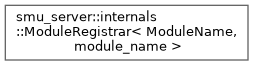
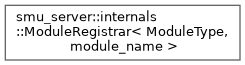
docs: update docs due to commit 8c395162f63e06a648062299bb7c2fcd1d58c3c3

Changed region(s): [[0.0571, 0.1538, 0.9429, 0.8], [0.5143, 0.6462, 0.7429, 0.8], [0.0, 0.0923, 0.0286, 0.8923]]

diff --git a/server/docs/html/module__registrar_8hpp_source.html b/server/docs/html/module__registrar_8hpp_source.html
@@ -164,16 +164,16 @@ $(document).ready(function(){initNavTree('module__registrar_8hpp_source.html',''
 <div class="line"><a id="l00077" name="l00077"></a><span class="lineno">   77</span> </div>
 <div class="line"><a id="l00078" name="l00078"></a><span class="lineno">   78</span> </div>
 <div class="foldopen" id="foldopen00088" data-start="{" data-end="};">
-<div class="line"><a id="l00088" name="l00088"></a><span class="lineno"><a class="line" href="structsmu__server_1_1internals_1_1ModuleRegistrar.html">   88</a></span><span class="keyword">template</span> &lt;<span class="keyword">typename</span> ModuleName, StringWrapper module_name&gt; <span class="keyword">struct </span><a class="code hl_struct" href="structsmu__server_1_1internals_1_1ModuleRegistrar.html">ModuleRegistrar</a> {</div>
+<div class="line"><a id="l00088" name="l00088"></a><span class="lineno"><a class="line" href="structsmu__server_1_1internals_1_1ModuleRegistrar.html">   88</a></span><span class="keyword">template</span> &lt;<span class="keyword">typename</span> ModuleType, StringWrapper module_name&gt; <span class="keyword">struct </span><a class="code hl_struct" href="structsmu__server_1_1internals_1_1ModuleRegistrar.html">ModuleRegistrar</a> {</div>
 <div class="foldopen" id="foldopen00098" data-start="{" data-end="}">
-<div class="line"><a id="l00098" name="l00098"></a><span class="lineno"><a class="line" href="structsmu__server_1_1internals_1_1ModuleRegistrar.html#abadae095c02c5320c8c561b9b5a77150">   98</a></span>    <a class="code hl_function" href="structsmu__server_1_1internals_1_1ModuleRegistrar.html#abadae095c02c5320c8c561b9b5a77150">ModuleRegistrar</a>() {</div>
+<div class="line"><a id="l00098" name="l00098"></a><span class="lineno"><a class="line" href="structsmu__server_1_1internals_1_1ModuleRegistrar.html#a102c18568dc517c4f0784cbb8dbd2f9f">   98</a></span>    <a class="code hl_function" href="structsmu__server_1_1internals_1_1ModuleRegistrar.html#a102c18568dc517c4f0784cbb8dbd2f9f">ModuleRegistrar</a>() {</div>
 <div class="line"><a id="l00099" name="l00099"></a><span class="lineno">   99</span>        <span class="keyword">static_assert</span>(!(<a class="code hl_function" href="namespacesmu__server_1_1internals.html#ac6001815b6a093112dcdabc7ba1744f8">contains_substring</a>(module_name.str, <span class="stringliteral">&quot;module&quot;</span>)),</div>
 <div class="line"><a id="l00100" name="l00100"></a><span class="lineno">  100</span>                      <span class="stringliteral">&quot;Module name must not contain the word &#39;module&#39;&quot;</span>);</div>
-<div class="line"><a id="l00101" name="l00101"></a><span class="lineno">  101</span>        <span class="keyword">static_assert</span>(std::is_base_of_v&lt;IModule, ModuleName&gt;,</div>
+<div class="line"><a id="l00101" name="l00101"></a><span class="lineno">  101</span>        <span class="keyword">static_assert</span>(std::is_base_of_v&lt;IModule, ModuleType&gt;,</div>
 <div class="line"><a id="l00102" name="l00102"></a><span class="lineno">  102</span>                      <span class="stringliteral">&quot;The module must inherit from the IModule class&quot;</span>);</div>
 <div class="line"><a id="l00103" name="l00103"></a><span class="lineno">  103</span>        <span class="comment">// Lazy module registering. Only adding to queue</span></div>
 <div class="line"><a id="l00104" name="l00104"></a><span class="lineno">  104</span>        <a class="code hl_function" href="classsmu__server_1_1Application.html#a264d4f3997b444cd74a5b67f7cc505ee">Application::instance</a>().<a class="code hl_function" href="classsmu__server_1_1Application.html#a506ae3d85f266d113791714e7e2a581a">add_module_to_queue</a>(</div>
-<div class="line"><a id="l00105" name="l00105"></a><span class="lineno">  105</span>            [](<a class="code hl_class" href="classsmu__server_1_1Application.html">Application</a>&amp; app) { app.<a class="code hl_function" href="classsmu__server_1_1Application.html#a804ca54e0e861ff72e8ff26837953440">register_module</a>&lt;ModuleName&gt;(); });</div>
+<div class="line"><a id="l00105" name="l00105"></a><span class="lineno">  105</span>            [](<a class="code hl_class" href="classsmu__server_1_1Application.html">Application</a>&amp; app) { app.<a class="code hl_function" href="classsmu__server_1_1Application.html#a804ca54e0e861ff72e8ff26837953440">register_module</a>&lt;ModuleType&gt;(); });</div>
 <div class="line"><a id="l00106" name="l00106"></a><span class="lineno">  106</span>    }</div>
 </div>
 <div class="line"><a id="l00107" name="l00107"></a><span class="lineno">  107</span>};</div>
@@ -225,7 +225,7 @@ $(document).ready(function(){initNavTree('module__registrar_8hpp_source.html',''
 <div class="ttc" id="anamespacesmu__server_1_1internals_html_ac6001815b6a093112dcdabc7ba1744f8"><div class="ttname"><a href="namespacesmu__server_1_1internals.html#ac6001815b6a093112dcdabc7ba1744f8">smu_server::internals::contains_substring</a></div><div class="ttdeci">consteval bool contains_substring(const char *str, const char *substr)</div><div class="ttdoc">Searches for a substring in a string regardless of case.</div><div class="ttdef"><b>Definition</b> module_registrar.hpp:47</div></div>
 <div class="ttc" id="anamespacesmu__server_html"><div class="ttname"><a href="namespacesmu__server.html">smu_server</a></div><div class="ttdef"><b>Definition</b> cli.hpp:14</div></div>
 <div class="ttc" id="astructsmu__server_1_1internals_1_1ModuleRegistrar_html"><div class="ttname"><a href="structsmu__server_1_1internals_1_1ModuleRegistrar.html">smu_server::internals::ModuleRegistrar</a></div><div class="ttdoc">Supporting structure for module registration.</div><div class="ttdef"><b>Definition</b> module_registrar.hpp:88</div></div>
-<div class="ttc" id="astructsmu__server_1_1internals_1_1ModuleRegistrar_html_abadae095c02c5320c8c561b9b5a77150"><div class="ttname"><a href="structsmu__server_1_1internals_1_1ModuleRegistrar.html#abadae095c02c5320c8c561b9b5a77150">smu_server::internals::ModuleRegistrar::ModuleRegistrar</a></div><div class="ttdeci">ModuleRegistrar()</div><div class="ttdoc">Registration constructor.</div><div class="ttdef"><b>Definition</b> module_registrar.hpp:98</div></div>
+<div class="ttc" id="astructsmu__server_1_1internals_1_1ModuleRegistrar_html_a102c18568dc517c4f0784cbb8dbd2f9f"><div class="ttname"><a href="structsmu__server_1_1internals_1_1ModuleRegistrar.html#a102c18568dc517c4f0784cbb8dbd2f9f">smu_server::internals::ModuleRegistrar::ModuleRegistrar</a></div><div class="ttdeci">ModuleRegistrar()</div><div class="ttdoc">Registration constructor.</div><div class="ttdef"><b>Definition</b> module_registrar.hpp:98</div></div>
 </div><!-- fragment --></div><!-- contents -->
 </div><!-- doc-content -->
 <!-- start footer part -->

diff --git a/server/docs/html/structsmu__server_1_1internals_1_1ModuleRegistrar.html b/server/docs/html/structsmu__server_1_1internals_1_1ModuleRegistrar.html
@@ -5,7 +5,7 @@
 <meta http-equiv="X-UA-Compatible" content="IE=11"/>
 <meta name="generator" content="Doxygen 1.9.8"/>
 <meta name="viewport" content="width=device-width, initial-scale=1"/>
-<title>smu-server: smu_server::internals::ModuleRegistrar&lt; ModuleName, module_name &gt; Struct Template Reference</title>
+<title>smu-server: smu_server::internals::ModuleRegistrar&lt; ModuleType, module_name &gt; Struct Template Reference</title>
 <link href="tabs.css" rel="stylesheet" type="text/css"/>
 <script type="text/javascript" src="jquery.js"></script>
 <script type="text/javascript" src="dynsections.js"></script>
@@ -93,7 +93,7 @@ $(document).ready(function(){initNavTree('structsmu__server_1_1internals_1_1Modu
   <div class="summary">
 <a href="#pub-methods">Public Member Functions</a> &#124;
 <a href="structsmu__server_1_1internals_1_1ModuleRegistrar-members.html">List of all members</a>  </div>
-  <div class="headertitle"><div class="title">smu_server::internals::ModuleRegistrar&lt; ModuleName, module_name &gt; Struct Template Reference</div></div>
+  <div class="headertitle"><div class="title">smu_server::internals::ModuleRegistrar&lt; ModuleType, module_name &gt; Struct Template Reference</div></div>
 </div><!--header-->
 <div class="contents">
 
@@ -104,35 +104,35 @@ $(document).ready(function(){initNavTree('structsmu__server_1_1internals_1_1Modu
 <table class="memberdecls">
 <tr class="heading"><td colspan="2"><h2 class="groupheader"><a id="pub-methods" name="pub-methods"></a>
 Public Member Functions</h2></td></tr>
-<tr class="memitem:abadae095c02c5320c8c561b9b5a77150" id="r_abadae095c02c5320c8c561b9b5a77150"><td class="memItemLeft" align="right" valign="top">&#160;</td><td class="memItemRight" valign="bottom"><a class="el" href="structsmu__server_1_1internals_1_1ModuleRegistrar.html#abadae095c02c5320c8c561b9b5a77150">ModuleRegistrar</a> ()</td></tr>
-<tr class="memdesc:abadae095c02c5320c8c561b9b5a77150"><td class="mdescLeft">&#160;</td><td class="mdescRight">Registration constructor.  <br /></td></tr>
-<tr class="separator:abadae095c02c5320c8c561b9b5a77150"><td class="memSeparator" colspan="2">&#160;</td></tr>
+<tr class="memitem:a102c18568dc517c4f0784cbb8dbd2f9f" id="r_a102c18568dc517c4f0784cbb8dbd2f9f"><td class="memItemLeft" align="right" valign="top">&#160;</td><td class="memItemRight" valign="bottom"><a class="el" href="structsmu__server_1_1internals_1_1ModuleRegistrar.html#a102c18568dc517c4f0784cbb8dbd2f9f">ModuleRegistrar</a> ()</td></tr>
+<tr class="memdesc:a102c18568dc517c4f0784cbb8dbd2f9f"><td class="mdescLeft">&#160;</td><td class="mdescRight">Registration constructor.  <br /></td></tr>
+<tr class="separator:a102c18568dc517c4f0784cbb8dbd2f9f"><td class="memSeparator" colspan="2">&#160;</td></tr>
 </table>
 <a name="details" id="details"></a><h2 class="groupheader">Detailed Description</h2>
-<div class="textblock"><div class="compoundTemplParams">template&lt;typename ModuleName, <a class="el" href="classsmu__server_1_1internals_1_1StringWrapper.html">StringWrapper</a> module_name&gt;<br />
-struct smu_server::internals::ModuleRegistrar&lt; ModuleName, module_name &gt;</div><p>Supporting structure for module registration. </p>
+<div class="textblock"><div class="compoundTemplParams">template&lt;typename ModuleType, <a class="el" href="classsmu__server_1_1internals_1_1StringWrapper.html">StringWrapper</a> module_name&gt;<br />
+struct smu_server::internals::ModuleRegistrar&lt; ModuleType, module_name &gt;</div><p>Supporting structure for module registration. </p>
 <p>Its object can be created statically, which will result in automatic registration. This is implemented in the <code>REGISTER_MODULE</code> macro.</p>
 <dl class="tparams"><dt>Template Parameters</dt><dd>
   <table class="tparams">
-    <tr><td class="paramname">ModuleName</td><td>Raw module type </td></tr>
+    <tr><td class="paramname">ModuleType</td><td>Raw module type </td></tr>
     <tr><td class="paramname">module_name</td><td>Name of module </td></tr>
   </table>
   </dd>
 </dl>
 </div><h2 class="groupheader">Constructor &amp; Destructor Documentation</h2>
-<a id="abadae095c02c5320c8c561b9b5a77150" name="abadae095c02c5320c8c561b9b5a77150"></a>
-<h2 class="memtitle"><span class="permalink"><a href="#abadae095c02c5320c8c561b9b5a77150">&#9670;&#160;</a></span>ModuleRegistrar()</h2>
+<a id="a102c18568dc517c4f0784cbb8dbd2f9f" name="a102c18568dc517c4f0784cbb8dbd2f9f"></a>
+<h2 class="memtitle"><span class="permalink"><a href="#a102c18568dc517c4f0784cbb8dbd2f9f">&#9670;&#160;</a></span>ModuleRegistrar()</h2>
 
 <div class="memitem">
 <div class="memproto">
 <div class="memtemplate">
-template&lt;typename ModuleName , <a class="el" href="classsmu__server_1_1internals_1_1StringWrapper.html">StringWrapper</a> module_name&gt; </div>
+template&lt;typename ModuleType , <a class="el" href="classsmu__server_1_1internals_1_1StringWrapper.html">StringWrapper</a> module_name&gt; </div>
 <table class="mlabels">
   <tr>
   <td class="mlabels-left">
       <table class="memname">
         <tr>
-          <td class="memname"><a class="el" href="structsmu__server_1_1internals_1_1ModuleRegistrar.html">smu_server::internals::ModuleRegistrar</a>&lt; ModuleName, module_name &gt;::ModuleRegistrar </td>
+          <td class="memname"><a class="el" href="structsmu__server_1_1internals_1_1ModuleRegistrar.html">smu_server::internals::ModuleRegistrar</a>&lt; ModuleType, module_name &gt;::ModuleRegistrar </td>
           <td>(</td>
           <td class="paramname"></td><td>)</td>
           <td></td>

diff --git a/server/docs/html/hierarchy.html b/server/docs/html/hierarchy.html
@@ -113,7 +113,7 @@ This inheritance list is sorted roughly, but not completely, alphabetically:</di
 <tr id="row_6_" class="odd"><td class="entry"><span style="width:16px;display:inline-block;">&#160;</span><span class="icona"><span class="icon">C</span></span><a class="el" href="classsmu__server_1_1IPC.html" target="_self">smu_server::IPC</a></td><td class="desc"></td></tr>
 <tr id="row_7_" class="even"><td class="entry"><span style="width:16px;display:inline-block;">&#160;</span><span class="icona"><span class="icon">C</span></span><a class="el" href="classsmu__server_1_1IPC__IO.html" target="_self">smu_server::IPC_IO</a></td><td class="desc">The class with async <a class="el" href="classsmu__server_1_1IPC.html">IPC</a> Input-Output class to send/receive raw messages </td></tr>
 <tr id="row_8_" class="odd"><td class="entry"><span style="width:16px;display:inline-block;">&#160;</span><span class="icona"><span class="icon">C</span></span><a class="el" href="classsmu__server_1_1Logger.html" target="_self">smu_server::Logger</a></td><td class="desc">Singleton class for logging </td></tr>
-<tr id="row_9_" class="even"><td class="entry"><span style="width:16px;display:inline-block;">&#160;</span><span class="icona"><span class="icon">C</span></span><a class="el" href="structsmu__server_1_1internals_1_1ModuleRegistrar.html" target="_self">smu_server::internals::ModuleRegistrar&lt; ModuleName, module_name &gt;</a></td><td class="desc">Supporting structure for module registration </td></tr>
+<tr id="row_9_" class="even"><td class="entry"><span style="width:16px;display:inline-block;">&#160;</span><span class="icona"><span class="icon">C</span></span><a class="el" href="structsmu__server_1_1internals_1_1ModuleRegistrar.html" target="_self">smu_server::internals::ModuleRegistrar&lt; ModuleType, module_name &gt;</a></td><td class="desc">Supporting structure for module registration </td></tr>
 <tr id="row_10_" class="odd"><td class="entry"><span style="width:16px;display:inline-block;">&#160;</span><span class="icona"><span class="icon">C</span></span><a class="el" href="classsmu__server_1_1Network.html" target="_self">smu_server::Network</a></td><td class="desc">Class for networking </td></tr>
 <tr id="row_11_" class="even"><td class="entry"><span style="width:16px;display:inline-block;">&#160;</span><span class="icona"><span class="icon">C</span></span><a class="el" href="classsmu__server_1_1internals_1_1StringWrapper.html" target="_self">smu_server::internals::StringWrapper&lt; N &gt;</a></td><td class="desc">The <a class="el" href="classsmu__server_1_1internals_1_1StringWrapper.html" title="The StringWrapper class to wrap const char* in compile-time.">StringWrapper</a> class to wrap const char* in compile-time </td></tr>
 <tr id="row_12_" class="odd"><td class="entry"><span style="width:0px;display:inline-block;">&#160;</span><span id="arr_12_" class="arrow" onclick="toggleFolder('12_')">&#9660;</span><span class="icona"><span class="icon">C</span></span><b>drogon::WebSocketController</b></td><td class="desc"></td></tr>

diff --git a/server/docs/html/structsmu__server_1_1internals_1_1ModuleRegistrar-members.html b/server/docs/html/structsmu__server_1_1internals_1_1ModuleRegistrar-members.html
@@ -90,13 +90,13 @@ $(document).ready(function(){initNavTree('structsmu__server_1_1internals_1_1Modu
 </div>
 
 <div class="header">
-  <div class="headertitle"><div class="title">smu_server::internals::ModuleRegistrar&lt; ModuleName, module_name &gt; Member List</div></div>
+  <div class="headertitle"><div class="title">smu_server::internals::ModuleRegistrar&lt; ModuleType, module_name &gt; Member List</div></div>
 </div><!--header-->
 <div class="contents">
 
-<p>This is the complete list of members for <a class="el" href="structsmu__server_1_1internals_1_1ModuleRegistrar.html">smu_server::internals::ModuleRegistrar&lt; ModuleName, module_name &gt;</a>, including all inherited members.</p>
+<p>This is the complete list of members for <a class="el" href="structsmu__server_1_1internals_1_1ModuleRegistrar.html">smu_server::internals::ModuleRegistrar&lt; ModuleType, module_name &gt;</a>, including all inherited members.</p>
 <table class="directory">
-  <tr class="even"><td class="entry"><a class="el" href="structsmu__server_1_1internals_1_1ModuleRegistrar.html#abadae095c02c5320c8c561b9b5a77150">ModuleRegistrar</a>()</td><td class="entry"><a class="el" href="structsmu__server_1_1internals_1_1ModuleRegistrar.html">smu_server::internals::ModuleRegistrar&lt; ModuleName, module_name &gt;</a></td><td class="entry"><span class="mlabel">inline</span></td></tr>
+  <tr class="even"><td class="entry"><a class="el" href="structsmu__server_1_1internals_1_1ModuleRegistrar.html#a102c18568dc517c4f0784cbb8dbd2f9f">ModuleRegistrar</a>()</td><td class="entry"><a class="el" href="structsmu__server_1_1internals_1_1ModuleRegistrar.html">smu_server::internals::ModuleRegistrar&lt; ModuleType, module_name &gt;</a></td><td class="entry"><span class="mlabel">inline</span></td></tr>
 </table></div><!-- contents -->
 </div><!-- doc-content -->
 <!-- start footer part -->

diff --git a/server/docs/html/module__registrar_8hpp.html b/server/docs/html/module__registrar_8hpp.html
@@ -190,7 +190,7 @@ Classes</h2></td></tr>
 <tr class="memitem:"><td class="memItemLeft" align="right" valign="top">class &#160;</td><td class="memItemRight" valign="bottom"><a class="el" href="classsmu__server_1_1internals_1_1StringWrapper.html">smu_server::internals::StringWrapper&lt; N &gt;</a></td></tr>
 <tr class="memdesc:"><td class="mdescLeft">&#160;</td><td class="mdescRight">The <a class="el" href="classsmu__server_1_1internals_1_1StringWrapper.html" title="The StringWrapper class to wrap const char* in compile-time.">StringWrapper</a> class to wrap const char* in compile-time.  <a href="classsmu__server_1_1internals_1_1StringWrapper.html#details">More...</a><br /></td></tr>
 <tr class="separator:"><td class="memSeparator" colspan="2">&#160;</td></tr>
-<tr class="memitem:"><td class="memItemLeft" align="right" valign="top">struct &#160;</td><td class="memItemRight" valign="bottom"><a class="el" href="structsmu__server_1_1internals_1_1ModuleRegistrar.html">smu_server::internals::ModuleRegistrar&lt; ModuleName, module_name &gt;</a></td></tr>
+<tr class="memitem:"><td class="memItemLeft" align="right" valign="top">struct &#160;</td><td class="memItemRight" valign="bottom"><a class="el" href="structsmu__server_1_1internals_1_1ModuleRegistrar.html">smu_server::internals::ModuleRegistrar&lt; ModuleType, module_name &gt;</a></td></tr>
 <tr class="memdesc:"><td class="mdescLeft">&#160;</td><td class="mdescRight">Supporting structure for module registration.  <a href="structsmu__server_1_1internals_1_1ModuleRegistrar.html#details">More...</a><br /></td></tr>
 <tr class="separator:"><td class="memSeparator" colspan="2">&#160;</td></tr>
 </table><table class="memberdecls">

diff --git a/server/docs/html/search/all_e.js b/server/docs/html/search/all_e.js
@@ -23,7 +23,7 @@ var searchData=
   ['module_5fname_20',['module_name',['../classsmu__server_1_1IModule.html#a7b88ea0d08c0b11a564b418953740d85',1,'smu_server::IModule']]],
   ['module_5fname_20and_20module_5fdescription_21',['module_name and module_description',['../md_for-developers_2modules_21__own__module.html#autotoc_md11',1,'']]],
   ['module_5fregistrar_2ehpp_22',['module_registrar.hpp',['../module__registrar_8hpp.html',1,'']]],
-  ['moduleregistrar_23',['moduleregistrar',['../structsmu__server_1_1internals_1_1ModuleRegistrar.html#abadae095c02c5320c8c561b9b5a77150',1,'smu_server::internals::ModuleRegistrar::ModuleRegistrar()'],['../structsmu__server_1_1internals_1_1ModuleRegistrar.html',1,'smu_server::internals::ModuleRegistrar&lt; ModuleName, module_name &gt;']]],
+  ['moduleregistrar_23',['moduleregistrar',['../structsmu__server_1_1internals_1_1ModuleRegistrar.html#a102c18568dc517c4f0784cbb8dbd2f9f',1,'smu_server::internals::ModuleRegistrar::ModuleRegistrar()'],['../structsmu__server_1_1internals_1_1ModuleRegistrar.html',1,'smu_server::internals::ModuleRegistrar&lt; ModuleType, module_name &gt;']]],
   ['modules_24',['Storing the entire JSON tree when creating modules',['../md_for-developers_2modules_23__storing__json__tree.html',1,'']]],
   ['modules_20with_20static_20data_25',['Creating modules with static data',['../md_for-developers_2modules_22__static__data__modules.html',1,'']]],
   ['modules_5fconfigs_5fdir_26',['MODULES_CONFIGS_DIR',['../compile-time__config_8hpp.html#aff2f960bb835131204e9087fb4270193',1,'compile-time_config.hpp']]]

diff --git a/server/docs/html/inherits.html b/server/docs/html/inherits.html
@@ -147,9 +147,9 @@ $(document).ready(function(){initNavTree('hierarchy.html',''); initResizable(); 
 <area shape="poly" title=" " alt="" coords="178,52,212,56,211,62,177,57"/>
 </map>
 </td></tr>
-<tr><td><img src="inherit_graph_7.png" border="0" usemap="#asmu__server_1_1internals_1_1ModuleRegistrar_3_01ModuleName_00_01module__name_01_4" alt=""/>
-<map name="asmu__server_1_1internals_1_1ModuleRegistrar_3_01ModuleName_00_01module__name_01_4" id="asmu__server_1_1internals_1_1ModuleRegistrar_3_01ModuleName_00_01module__name_01_4">
-<area shape="rect" href="structsmu__server_1_1internals_1_1ModuleRegistrar.html" title="Supporting structure for module registration." alt="" coords="5,5,248,60"/>
+<tr><td><img src="inherit_graph_7.png" border="0" usemap="#asmu__server_1_1internals_1_1ModuleRegistrar_3_01ModuleType_00_01module__name_01_4" alt=""/>
+<map name="asmu__server_1_1internals_1_1ModuleRegistrar_3_01ModuleType_00_01module__name_01_4" id="asmu__server_1_1internals_1_1ModuleRegistrar_3_01ModuleType_00_01module__name_01_4">
+<area shape="rect" href="structsmu__server_1_1internals_1_1ModuleRegistrar.html" title="Supporting structure for module registration." alt="" coords="5,5,240,60"/>
 </map>
 </td></tr>
 <tr><td><img src="inherit_graph_8.png" border="0" usemap="#asmu__server_1_1internals_1_1StringWrapper_3_01N_01_4" alt=""/>

diff --git a/server/docs/html/functions.html b/server/docs/html/functions.html
@@ -175,7 +175,7 @@ $(document).ready(function(){initNavTree('functions.html',''); initResizable(); 
 <li>MetricValueNode()&#160;:&#160;<a class="el" href="classsmu__server_1_1internals_1_1MetricValueNode.html#a5adf1cda5ee7aa8b5581afba2e5f2dfa">smu_server::internals::MetricValueNode</a></li>
 <li>module_description()&#160;:&#160;<a class="el" href="classsmu__server_1_1IModule.html#aaef5d08464fb3bada417fced684d44a4">smu_server::IModule</a></li>
 <li>module_name()&#160;:&#160;<a class="el" href="classsmu__server_1_1IModule.html#a7b88ea0d08c0b11a564b418953740d85">smu_server::IModule</a></li>
-<li>ModuleRegistrar()&#160;:&#160;<a class="el" href="structsmu__server_1_1internals_1_1ModuleRegistrar.html#abadae095c02c5320c8c561b9b5a77150">smu_server::internals::ModuleRegistrar&lt; ModuleName, module_name &gt;</a></li>
+<li>ModuleRegistrar()&#160;:&#160;<a class="el" href="structsmu__server_1_1internals_1_1ModuleRegistrar.html#a102c18568dc517c4f0784cbb8dbd2f9f">smu_server::internals::ModuleRegistrar&lt; ModuleType, module_name &gt;</a></li>
 </ul>
 
 

diff --git a/server/docs/html/functions_func.html b/server/docs/html/functions_func.html
@@ -163,7 +163,7 @@ $(document).ready(function(){initNavTree('functions_func.html',''); initResizabl
 <li>MetricValueNode()&#160;:&#160;<a class="el" href="classsmu__server_1_1internals_1_1MetricValueNode.html#a5adf1cda5ee7aa8b5581afba2e5f2dfa">smu_server::internals::MetricValueNode</a></li>
 <li>module_description()&#160;:&#160;<a class="el" href="classsmu__server_1_1IModule.html#aaef5d08464fb3bada417fced684d44a4">smu_server::IModule</a></li>
 <li>module_name()&#160;:&#160;<a class="el" href="classsmu__server_1_1IModule.html#a7b88ea0d08c0b11a564b418953740d85">smu_server::IModule</a></li>
-<li>ModuleRegistrar()&#160;:&#160;<a class="el" href="structsmu__server_1_1internals_1_1ModuleRegistrar.html#abadae095c02c5320c8c561b9b5a77150">smu_server::internals::ModuleRegistrar&lt; ModuleName, module_name &gt;</a></li>
+<li>ModuleRegistrar()&#160;:&#160;<a class="el" href="structsmu__server_1_1internals_1_1ModuleRegistrar.html#a102c18568dc517c4f0784cbb8dbd2f9f">smu_server::internals::ModuleRegistrar&lt; ModuleType, module_name &gt;</a></li>
 </ul>
 
 

diff --git a/server/docs/html/search/functions_9.js b/server/docs/html/search/functions_9.js
@@ -8,5 +8,5 @@ var searchData=
   ['metricvaluenode_5',['MetricValueNode',['../classsmu__server_1_1internals_1_1MetricValueNode.html#a5adf1cda5ee7aa8b5581afba2e5f2dfa',1,'smu_server::internals::MetricValueNode']]],
   ['module_5fdescription_6',['module_description',['../classsmu__server_1_1IModule.html#aaef5d08464fb3bada417fced684d44a4',1,'smu_server::IModule']]],
   ['module_5fname_7',['module_name',['../classsmu__server_1_1IModule.html#a7b88ea0d08c0b11a564b418953740d85',1,'smu_server::IModule']]],
-  ['moduleregistrar_8',['ModuleRegistrar',['../structsmu__server_1_1internals_1_1ModuleRegistrar.html#abadae095c02c5320c8c561b9b5a77150',1,'smu_server::internals::ModuleRegistrar']]]
+  ['moduleregistrar_8',['ModuleRegistrar',['../structsmu__server_1_1internals_1_1ModuleRegistrar.html#a102c18568dc517c4f0784cbb8dbd2f9f',1,'smu_server::internals::ModuleRegistrar']]]
 ];

diff --git a/server/docs/html/navtreeindex1.js b/server/docs/html/navtreeindex1.js
@@ -103,8 +103,8 @@ var NAVTREEINDEX1 =
 "structsmu__server_1_1IMetricNodeBase.html#aac5b31ba7e96436333eadefe54dcbd48":[8,0,0,6,0],
 "structsmu__server_1_1internals_1_1ModuleRegistrar.html":[8,0,0,0,3],
 "structsmu__server_1_1internals_1_1ModuleRegistrar.html":[9,0,0,0,3],
-"structsmu__server_1_1internals_1_1ModuleRegistrar.html#abadae095c02c5320c8c561b9b5a77150":[9,0,0,0,3,0],
-"structsmu__server_1_1internals_1_1ModuleRegistrar.html#abadae095c02c5320c8c561b9b5a77150":[8,0,0,0,3,0],
+"structsmu__server_1_1internals_1_1ModuleRegistrar.html#a102c18568dc517c4f0784cbb8dbd2f9f":[9,0,0,0,3,0],
+"structsmu__server_1_1internals_1_1ModuleRegistrar.html#a102c18568dc517c4f0784cbb8dbd2f9f":[8,0,0,0,3,0],
 "version_8hpp.html":[10,0,1,8],
 "version_8hpp.html#a43e23009192a3e216fefec17750d8673":[10,0,1,8,1],
 "version_8hpp.html#a4a5fc96a4bdd7d68ed99ccce9ca2e77e":[10,0,1,8,2],

diff --git a/server/docs/html/module__registrar_8hpp.js b/server/docs/html/module__registrar_8hpp.js
@@ -1,7 +1,7 @@
 var module__registrar_8hpp =
 [
     [ "smu_server::internals::StringWrapper< N >", "classsmu__server_1_1internals_1_1StringWrapper.html", "classsmu__server_1_1internals_1_1StringWrapper" ],
-    [ "smu_server::internals::ModuleRegistrar< ModuleName, module_name >", "structsmu__server_1_1internals_1_1ModuleRegistrar.html", "structsmu__server_1_1internals_1_1ModuleRegistrar" ],
+    [ "smu_server::internals::ModuleRegistrar< ModuleType, module_name >", "structsmu__server_1_1internals_1_1ModuleRegistrar.html", "structsmu__server_1_1internals_1_1ModuleRegistrar" ],
     [ "REGISTER_MODULE", "module__registrar_8hpp.html#a0ae008fd11e0c412f9693acac82e0ab1", null ],
     [ "contains_substring", "module__registrar_8hpp.html#ac6001815b6a093112dcdabc7ba1744f8", null ]
 ];
